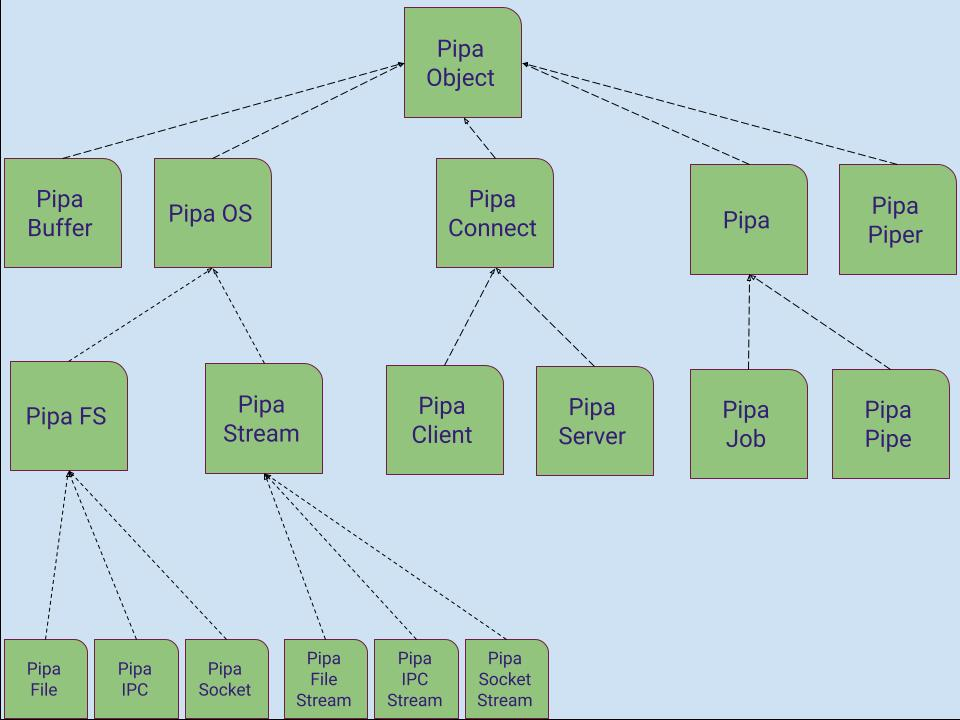
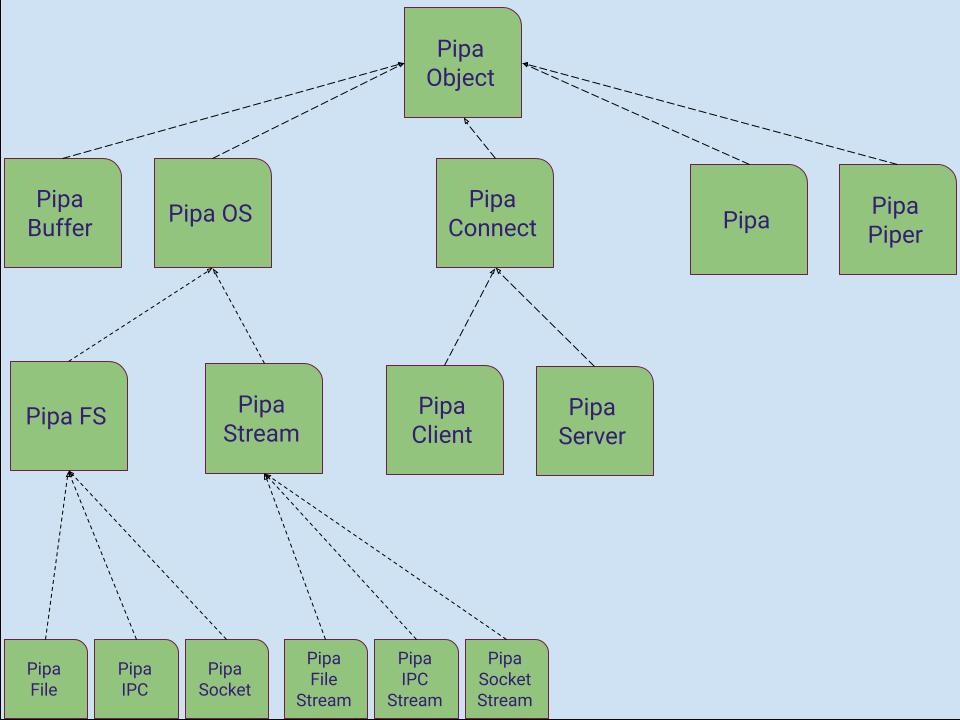
diagram was a bit wrong

Changed region(s): [[0.7188, 0.4889, 1.0, 0.6722]]

diff --git a/src/Pipa/Pipa.js b/src/Pipa/Pipa.js
@@ -1,5 +1,5 @@
 import { PipaObject } from "../PipaObject/PipaObject";
-export class PipaPipeline extends PipaObject {
+export class Pipa extends PipaObject {
     constructor(){
 
     }
